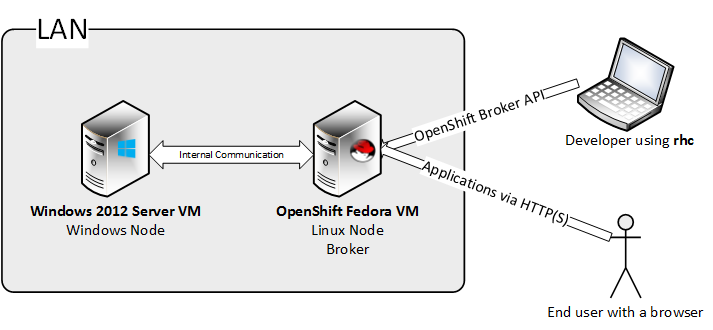
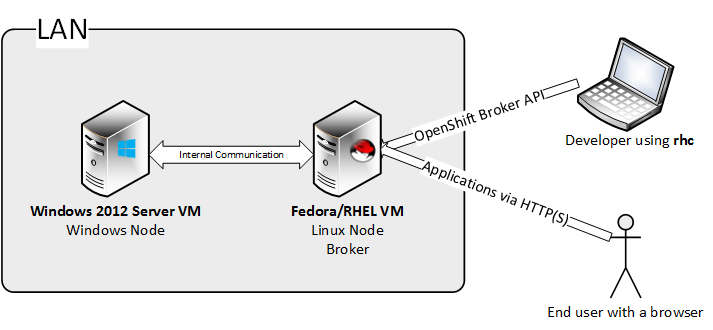
Added an installer parameter for the MCollective psk plugin. Updated documentation with support for OpenShift Enterprise.

Changed region(s): [[0.3703, 0.6061, 0.5863, 0.6667]]

diff --git a/documentation/Deploying OpenShift with Windows Support.md b/documentation/Deploying OpenShift with Windows Support.md
@@ -1,9 +1,11 @@
 # Deploying OpenShift with Windows support #
 
-This document provides instructions on how to deploy a 2 node OpenShift environment that has Windows support. 
-We are going to use an Origin Fedora VM that comes with a full installation - a broker and a node on the same VM.
+This document provides instructions on how to deploy an OpenShift environment that has Windows support. 
+There are two options:
+- use an Origin Fedora VM that comes with a full installation - a broker and a node on the same VM (good for development environments)
+- use an OpenShift Enterprise installation 
 
-Next to this we're going to setup a Windows VM that will connect to the Linux OpenShift broker. 
+Next to either of these we're going to setup a Windows VM that will connect to the Linux OpenShift broker. 
 
 ## Cloud Topology ##
 
@@ -12,22 +14,54 @@ Next to this we're going to setup a Windows VM that will connect to the Linux Op
 
 ## Setting up things on Linux ##
 
+###Using the Fedora all-in-one VM
+
 You can download the Linux OpenShift VM from [here](https://mirror.openshift.com/pub/origin-server/release/3/images/). Make sure to download the `openshift-origin.zip` file. For this deployment manual, we support the version from **December 19th 2013**. 
 
 After starting the VM, go to the root console and install the changes required for windows support.
+
+###Using an OpenShift Enterprise Installation 
+
+- Install RHEL 6.5 on a VM.
+- Register to Red Hat Subscription Management using `subscription-manager register`.
+- Attach a proper subscription using `subscription-manager subscribe <pool id>`.
+- Make sure the following repos (and only these) are enabled in `/etc/yum.repos.d/redhat.repo`
+
+		jb-eap-6-for-rhel-6-server-rpms
+		jb-ews-2-for-rhel-6-server-rpms
+		rhel-6-server-optional-rpms
+		rhel-6-server-rpms
+		rhel-6-server-ose-2.0-infra-rpms
+		rhel-6-server-ose-2.0-node-rpms
+		rhel-6-server-ose-2.0-rhc-rpms
+		rhel-6-server-ose-2.0-jbosseap-rpms
+		rhel-server-rhscl-6-rpms
+
+- Install ruby - `yum install ruby`.
+- Go [here](https://install.openshift.com/) and follow the instructions for "OpenShift Enterprise". If you setup a multi-node deployment, make sure to install the rpm on each of them.
+- Reboot the server
+- **MAKE SURE THE TIME OF THE VM IS SYNCED**
+
+###Update OpenShift with changes required for Windows Support
 
 **Please make sure that you run all the commands specified in this document as `root`.**
 
 The RPM can be found [here](http://winjenkins.hosts.uhuruos.com/). Credentials are required to download the packages.
 
-To install and update the local machine, run the following commands:
+If you have an OpenShift Enterprise deployment, run these commands on each of the hosts.
+
+To install and update a Linux VM, run the following commands:
 
 	wget http://<user>:<password>@winjenkins.hosts.uhuruos.com/uhuruorigin-0.<version>.rpm
-	yum remove uhuruorigin
 	yum install uhuruorigin-0.<version>.rpm
+	# if the VM has the Node role and it's the Fedora all-in-one VM
 	service mcollective restart
+	# if the VM has the Node role and it's RHEL with OpenShift Enterprise
+	service ruby193-mcollective restart 
+	# if the VM has the Broker role
 	service openshift-broker restart
-	(cd /var/www/openshift/broker/; bundle exec rake tmp:clear)
+	oo-admin-broker-cache --console
+
 
 ## Windows Prerequisites ##
 
@@ -65,6 +99,7 @@ The supported Windows versions are Windows Server 2012 and Windows Server 2012 R
     - Please note the password you set for the `sa` account - you will need to configure the OpenShift node with it
     - After the installation is complete, stop the `SQL Server (MSSQLSERVER)` Windows Service, then disable it (the Windows Node installation script will check to see if this was setup correctly)
 
+- **MAKE SURE THE TIME OF THE VM IS SYNCED**
 
 ###Screenshots###
 
@@ -94,9 +129,13 @@ This walk-through assumes you are managing the server locally, not remotely.
 **Step 6** - On the confirmation page, click "Install" and wait for the installation process to complete
 
 
-## Setting up hosts ##
+## Setting up DNS ##
 
-Before proceeding with the Windows installation, you have to setup the hosts files on both Windows and Linux (the OpenShift VM uses multicast DNS and Windows does not have a proper solution for this).
+Before proceeding with the Windows installation, you have to make sure your hosts resolve ok.
+
+###Using the Fedora all-in-one VM
+
+You have to setup the hosts files on both Windows and Linux (the OpenShift VM uses multicast DNS and Windows does not have a proper solution for this).
 
 - on Linux, edit `/etc/hosts`, add an entry like 
 
@@ -107,14 +146,27 @@ Before proceeding with the Windows installation, you have to setup the hosts fil
 
 	e.g.: `10.2.0.21 broker-a211bd.openshift.local`
 
+###Using an OpenShift Enterprise Installation
+
+On the Broker VM, add an A record for the Windows Node to named by editing `/var/named/dynamic/<your cloud domain>.db`, then restart named: `service named restart`.
+
+Setup a conditional forwarder for your cloud's domain in your organization's DNS server
+
+The Windows Node will have to use your organization's DNS server.
+
+To make sure everything is in order, see if these return the proper response:
+- On Windows, `nslookup <broker_fqdn_hostname>`
+- On Linux, `nslookup <windows_node_fqdn_hostname>`
+
 ## Installing the OpenShift Windows Node ##
 
 Download the windows installer from [here](http://winjenkins.hosts.uhuruos.com/). Credentials are required.
 
 - Run the installer
 - It will unpack the build in a temporary folder and drop you in PowerShell
-- From there you can run the installation script
-- You can simply run ./install.ps1 and the script will ask you for needed information
+- From there you can run the installation script:
+  - For a Fedora all-in-one installation you can simply run `./install.ps1` and the script will ask you for needed information
+  - For an OpenShift Enterprise installation, you have to specify an mcollective psk plugin (asimplething), so provide that as a parameter: `./install.ps1 -mcollectivePskPlugin asimplething`
 - If you need special settings, please read the manual included below and run the script with the appropriate settings
 
 ### Restarting services on the broker ###
@@ -235,6 +287,12 @@ After finishing the installation on Windows, clear the cache on the Linux machin
         Required?                    no
         Default value                marionette
 
+	-mcollectivePskPlugin <String>    
+    	Psk plugin used in MCollective. The default value is 'unset'. 
+		For an OpenShift Enterprise installation, the value should be 'asimplething'.
+        Required?                    no
+        Default value                unset
+
     -sshdCygwinDir <String>
         Location of sshd installation. This is where cygwin will be installed.
         Required?                    no
@@ -306,6 +364,14 @@ After finishing the installation on Windows, clear the cache on the Linux machin
 `.\install.ps1 -publicHostname winnode-001.mycloud.com -brokerHost broker.mycloud.com -cloudDomain mycloud.com -sqlServerSAPassword mysapassword -publicIP 10.2.0.104`
 
 
+- Install the node for an OpenShift Enterprise deployment, passing a non-default mcollectivePskPlugin.
+
+`.\install.ps1 -mcollectivePskPlugin asimplething`
+
+
+- Install the node for an OpenShift Enterprise deployment, passing a non-default mcollectivePskPlugin and the minimum information required.
+
+`.\install.ps1 -mcollectivePskPlugin asimplething -publicHostname winnode-001.mycloud.com -brokerHost broker.mycloud.com -cloudDomain mycloud.com -sqlServerSAPassword mysapassword`
     
 
 

diff --git a/documentation/release_notes.md b/documentation/release_notes.md
@@ -1,3 +1,29 @@
+## Windows Extensions for OpenShift 0.3 Release Notes ##
+
+### Additions ###
+
+- support for OSE deployments
+
+### Changes ###
+
+- installation script has an option to set the mcollective psk security plugin
+
+### Known Issues###
+
+- upgrade will not work from previous version
+- gears will not be gracefully stopped on system shutdown
+- district support is not available
+- applications are not detected as idle
+- port reservation for applications is not assigned based on 'uid'
+- the oo-accept-systems script will return failures for cartridges
+- port forward to a SQL Server cartridge does not work
+- the Uhuru Prison is not fully locked (network restrictions, disk ACLs and disk quotas are not enforced)
+- jenkins builds will not work with Windows apps
+- concurrency - the Windows Nodes might be unpredictable if used by multiple users at the same time
+- non-scalable Windows applications are allowed, although they cannot be accessed via port 80
+- not all checks are enabled for oo-admin-accept-node (some don't apply to Windows)
+
+
 ## Windows Extensions for OpenShift 0.2 Release Notes ##
 
 ### Additions ###
